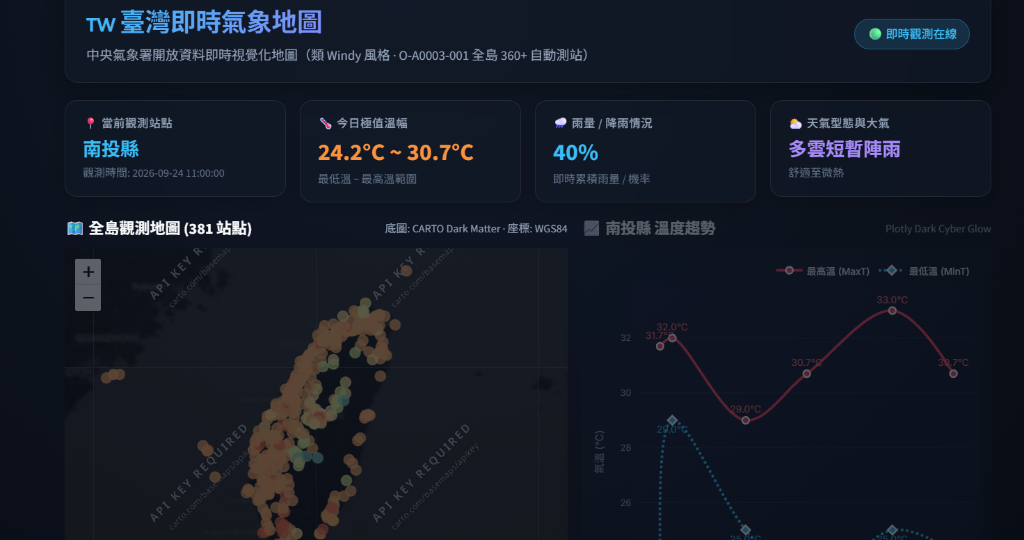
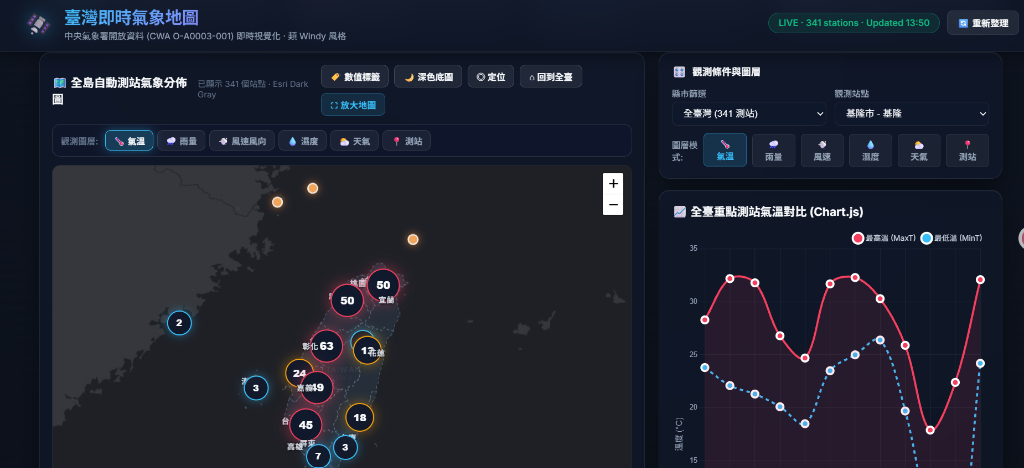
docs: update system preview image and document interactive toolbar & temperature curve

diff --git a/README.md b/README.md
@@ -88,15 +88,16 @@ flowchart TD
 - **⛅ 天氣現象**：晴、多雲、短暫陣雨等天氣圖示化狀態。
 - **📍 測站點位**：極簡冷光科技藍圓點，利於宏觀掌握 340+ 個觀測點分布。
 
-### 2. ⛶ 90% 沉浸式放大地圖 (Expand Map Modal)
-- 點擊地圖右上角 `⛶` 按鈕，地圖平滑展開至覆蓋瀏覽器 90% 寬高的大型深色玻璃擬態 Overlay。
-- 完整保留 Zoom 控制、測站標記、圖層切換與縣市篩選。
-- 支援右上角 `✕` 按鈕、點擊遮罩背景或按下鍵盤 **`ESC`** 即時關閉。
-- 視窗尺寸改變時嚴格執行 `map.invalidateSize()`，徹底防止 Leaflet 地圖破圖或白邊。
+### 2. 🎛 地圖快捷工具列 (Quick Action Toolbar)
+- **🏷 數值標籤**：一鍵切換測站數值與純圓點模式，適合不同縮放層級觀測。
+- **🌙 雙底圖切換**：深色模式 (Esri World Dark Gray) 與淺色街道模式 (CartoDB Positron / OSM) 即時切換。
+- **🎯 瀏覽器定位**：快速取得使用者經緯度並聚焦定位至所在行政區氣象。
+- **⌂ 回到全臺**：一鍵將地圖視角自動平滑復原至全臺整體視角 (`fitBounds`)。
+- **⛶ 90% 放大地圖 (Expand Map Modal)**：展開覆蓋 90% 寬高沉浸式地圖，支援鍵盤 `ESC` 與自動視窗重繪 (`map.invalidateSize()`)。
 
-### 3. 🌙 雙底圖自由切換 (Dual Base Maps)
-- **🌙 深色暗黑模式 (Esri World Dark Gray)**：預設底圖，深藍黑海洋配襯發光標記，無任何付費浮水印干擾。
-- **🛣 街道模式 (CartoDB Positron / OSM)**：一鍵切換高對比度淺色道路底圖，便於查閱微觀地理城鎮與道路脈絡。
+### 3. 📈 全臺重點測站氣溫對比 (Chart.js)
+- 右側即時呈現重點測站氣溫對比圖，以平滑雙曲線呈現各站 **🔴 當日最高溫 (MaxT)** 與 **🔵 當日最低溫 (MinT)**。
+- 支援懸浮 Tooltip 詳情查閱與響應式重繪。
 
 ### 4. 📐 臺灣 22 縣市 GeoJSON 幾何邊界與視角導航
 - 內建 `tw_counties.js` 高精度行政區邊界向量。
